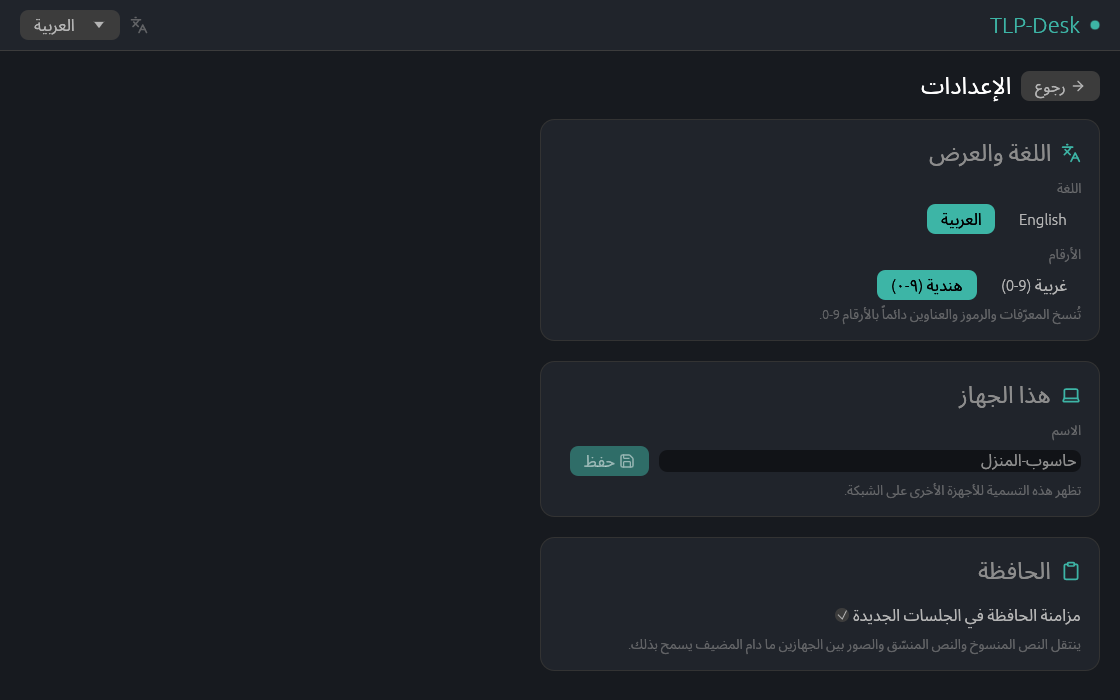
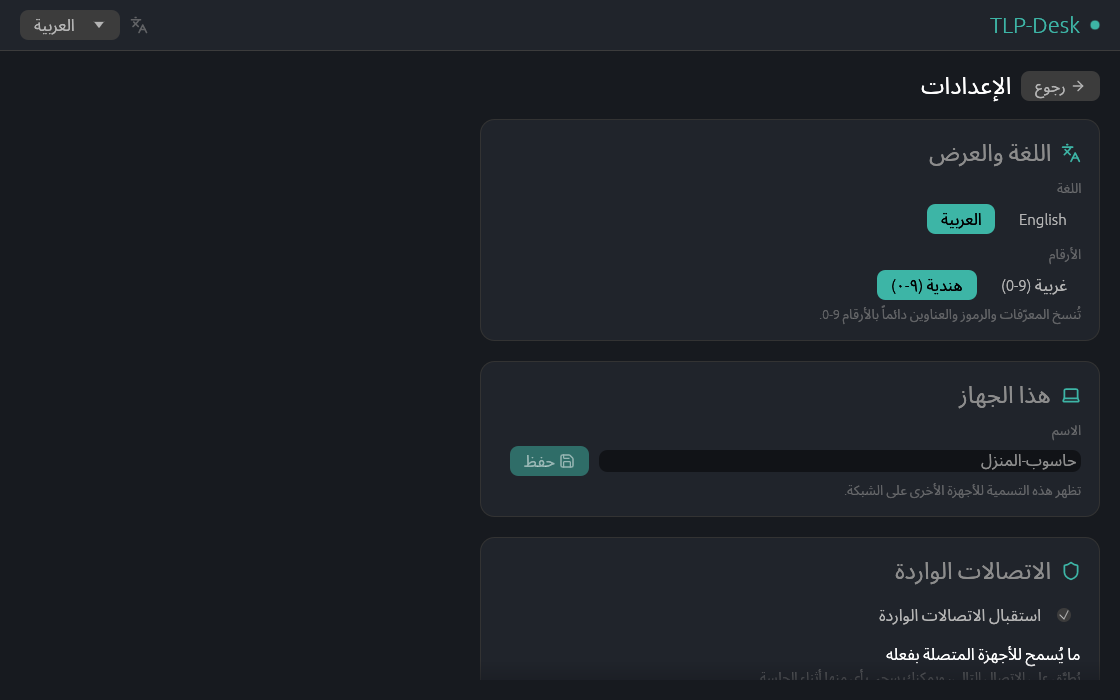
TLP-media: settings sections and connection log scenes

Changed region(s): [[0.5625, 0.87, 0.9688, 0.96], [0.4375, 0.63, 0.5938, 0.69], [0.8125, 0.81, 0.9688, 0.84]]

diff --git a/crates/tlp-desk-app/examples/readme_media/scenes.rs b/crates/tlp-desk-app/examples/readme_media/scenes.rs
@@ -85,6 +85,21 @@ pub const SCENES: &[Scene] = &[
         setup: settings,
     },
     Scene {
+        name: "settings-incoming",
+        about: "settings: what connected devices may do, accept timeout, one-time code",
+        setup: settings_incoming,
+    },
+    Scene {
+        name: "settings-network",
+        about: "settings: allowed networks (CIDR list), picture quality, start-up and tray",
+        setup: settings_network,
+    },
+    Scene {
+        name: "connection-log",
+        about: "connection log: Arabic and English peers, refused attempts, search and filter",
+        setup: connection_log,
+    },
+    Scene {
         name: "key-changed",
         about: "loud warning when a host's key changed",
         setup: key_changed,
@@ -241,6 +256,103 @@ fn file_browser(app: &mut App, lang: Lang) {
 fn settings(app: &mut App, lang: Lang) {
     home(app, lang);
     app.screen = Screen::Settings;
+    if lang == Lang::Ar {
+        use_digits(app, DigitStyle::ArabicIndic);
+    }
+}
+
+fn settings_incoming(app: &mut App, lang: Lang) {
+    settings(app, lang);
+    app.settings_ui.scroll_offset = Some(430.0);
+}
+
+fn settings_network(app: &mut App, lang: Lang) {
+    settings(app, lang);
+    app.settings.host.allow_list = vec!["192.168.1.0/24".into(), "10.8.0.0/16".into()];
+    app.settings_ui.scroll_offset = Some(1000.0);
+}
+
+fn connection_log(app: &mut App, lang: Lang) {
+    use tlp_desk_app::connection_log::{Direction, LogAuth, LogEnd, LogEntry};
+    use tlp_desk_app::settings::PermissionSet;
+    use tlp_desk_app::ui::connection_log::ConnLogUi;
+    home(app, lang);
+    let base: u64 = 1_760_000_000_000;
+    let entry = |hours: u64,
+                 name: &str,
+                 id: u32,
+                 addr: &str,
+                 direction: Direction,
+                 auth: LogAuth,
+                 minutes: u64,
+                 end: LogEnd| LogEntry {
+        started_ms: base + hours * 3_600_000,
+        duration_ms: minutes * 60_000,
+        direction,
+        device_id: id,
+        name: name.into(),
+        address: addr.into(),
+        auth,
+        permissions: PermissionSet(
+            Permissions::VIEW | Permissions::CONTROL | Permissions::KEYBOARD | Permissions::FILES,
+        ),
+        end,
+        ..LogEntry::default()
+    };
+    let entries = vec![
+        entry(
+            0,
+            "Office-PC",
+            482_913_057,
+            "192.168.1.20",
+            Direction::Incoming,
+            LogAuth::AcceptPrompt,
+            42,
+            LogEnd::ClosedRemotely,
+        ),
+        entry(
+            5,
+            "حاسوب سارة",
+            731_204_586,
+            "192.168.1.31",
+            Direction::Incoming,
+            LogAuth::OneTimeCode,
+            7,
+            LogEnd::ClosedHere,
+        ),
+        entry(
+            9,
+            "Laptop-Ali",
+            118_004_372,
+            "192.168.1.77",
+            Direction::Incoming,
+            LogAuth::OneTimeCode,
+            0,
+            LogEnd::WrongCredentials,
+        ),
+        entry(
+            26,
+            "خادم المحاسبة",
+            905_551_220,
+            "192.168.1.5",
+            Direction::Outgoing,
+            LogAuth::Password,
+            125,
+            LogEnd::ClosedHere,
+        ),
+        entry(
+            30,
+            "Reception",
+            264_380_911,
+            "192.168.1.44",
+            Direction::Incoming,
+            LogAuth::AcceptPrompt,
+            0,
+            LogEnd::Declined,
+        ),
+    ];
+    app.conn_log = ConnLogUi::with_fixed(entries, time::UtcOffset::UTC);
+    app.screen = Screen::ConnectionLog;
     if lang == Lang::Ar {
         use_digits(app, DigitStyle::ArabicIndic);
     }
